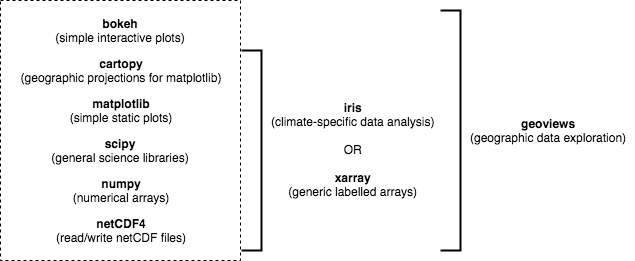
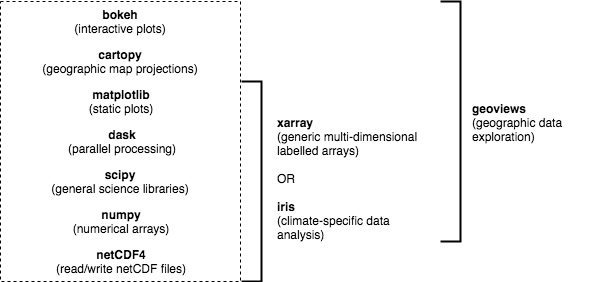
Updated picture of the stack

Changed region(s): [[0.0, 0.0, 1.0, 1.0]]

diff --git a/fig/README.md b/fig/README.md
@@ -1,0 +1,2 @@
+Open `01-pyaos-stack.xml` using the online [draw.io](https://www.draw.io/) editor
+to make changes to the `01-pyaos-stack.png` figure.
